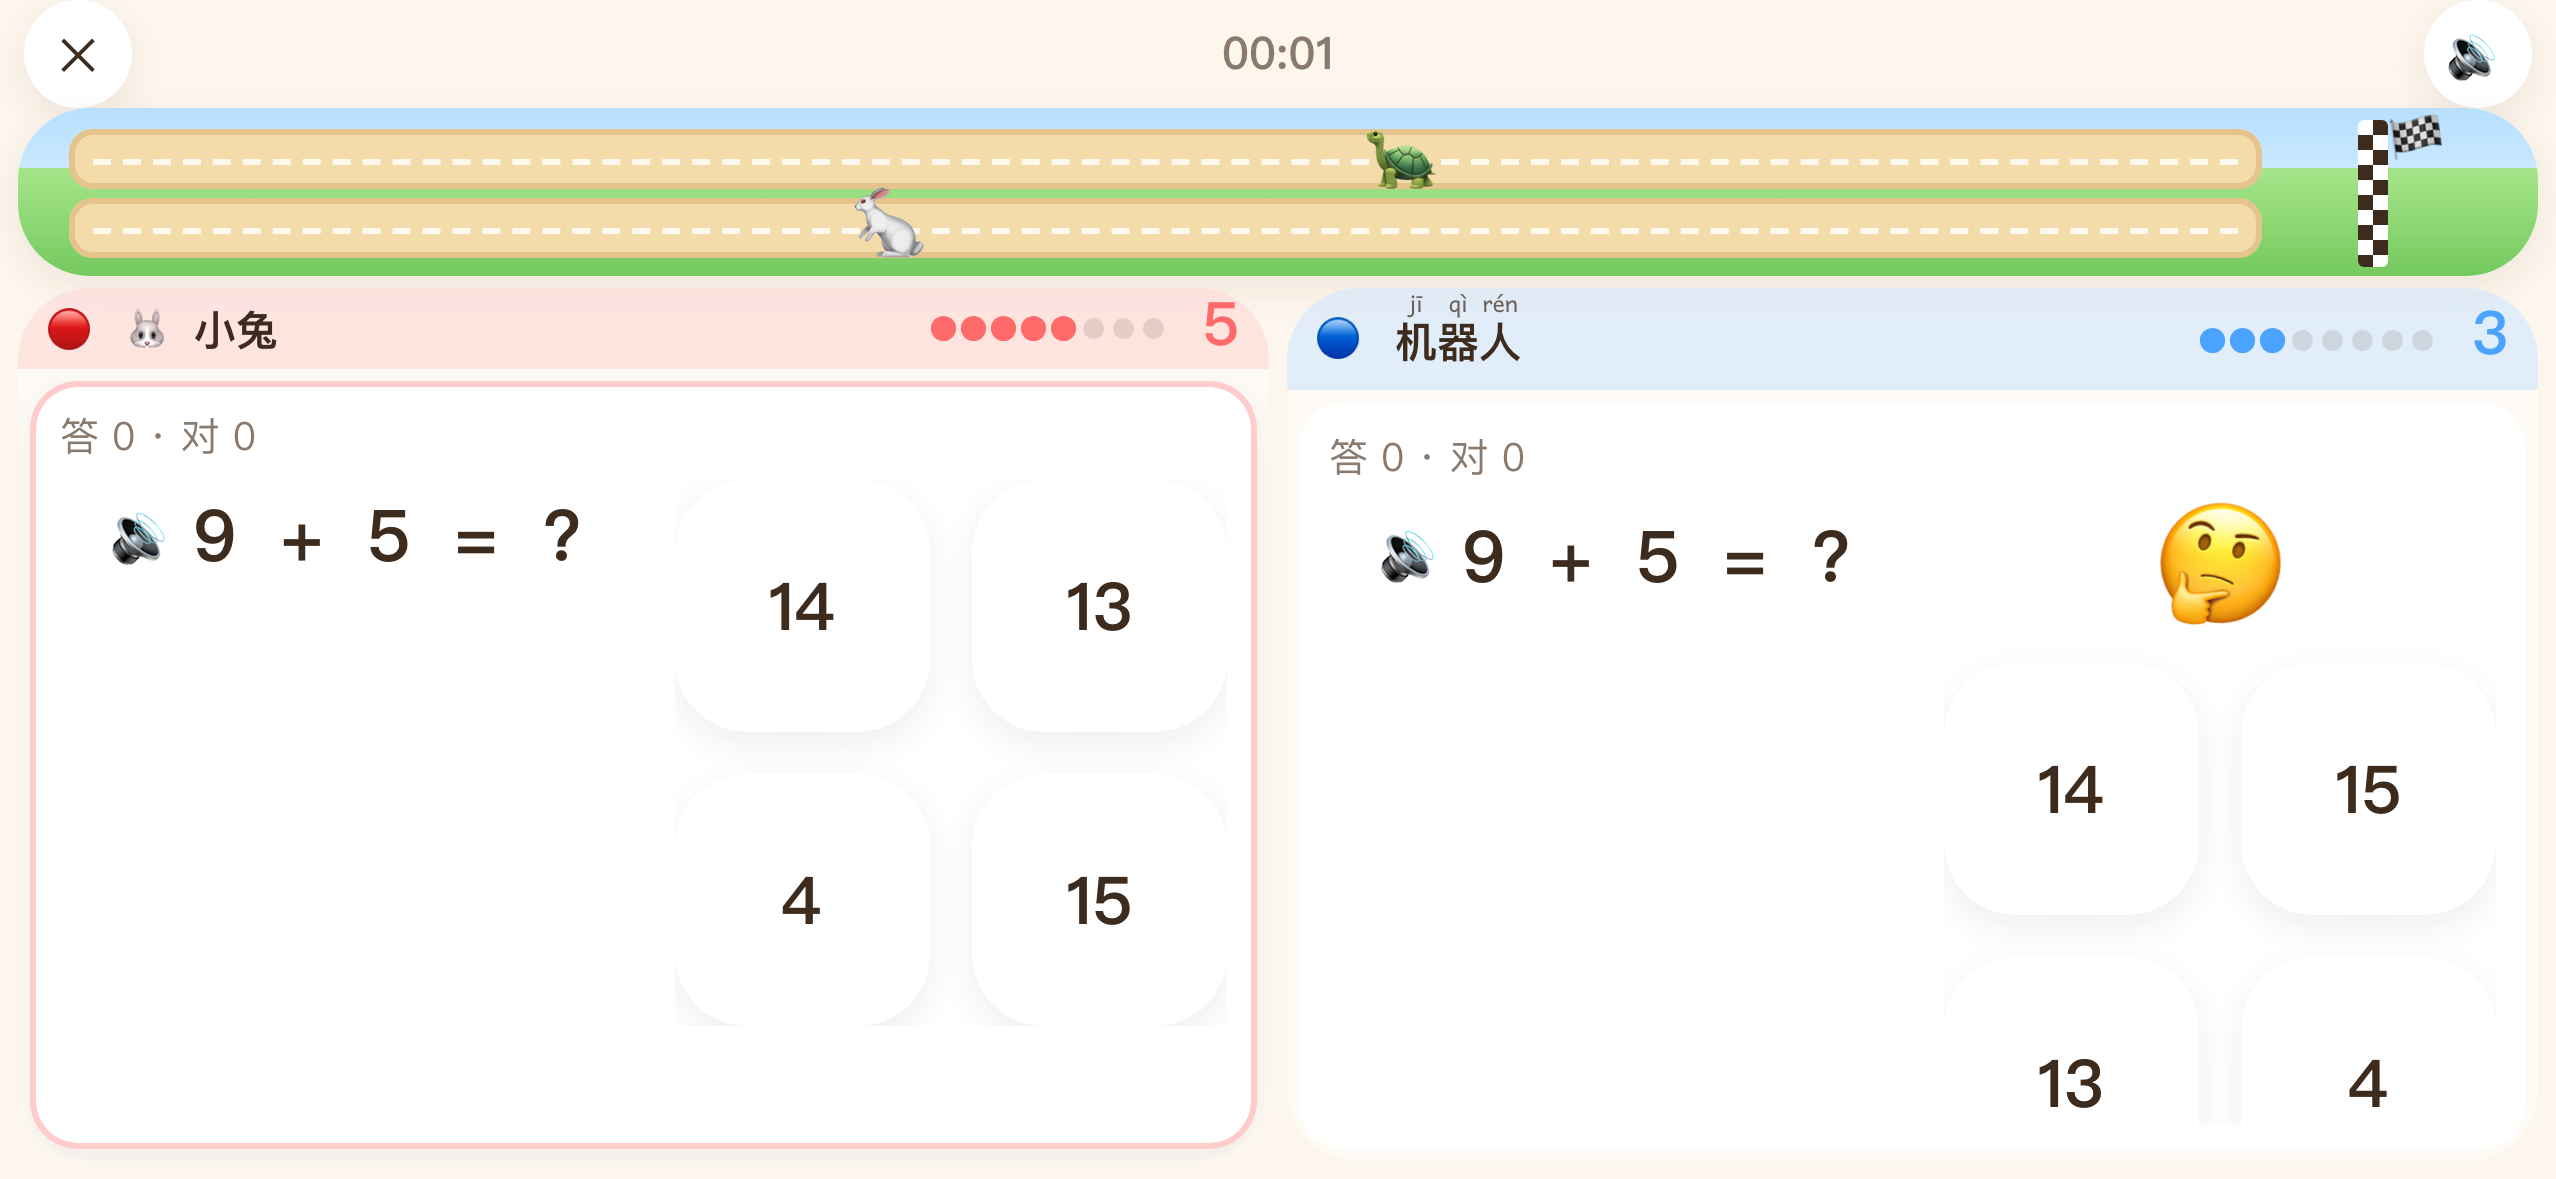
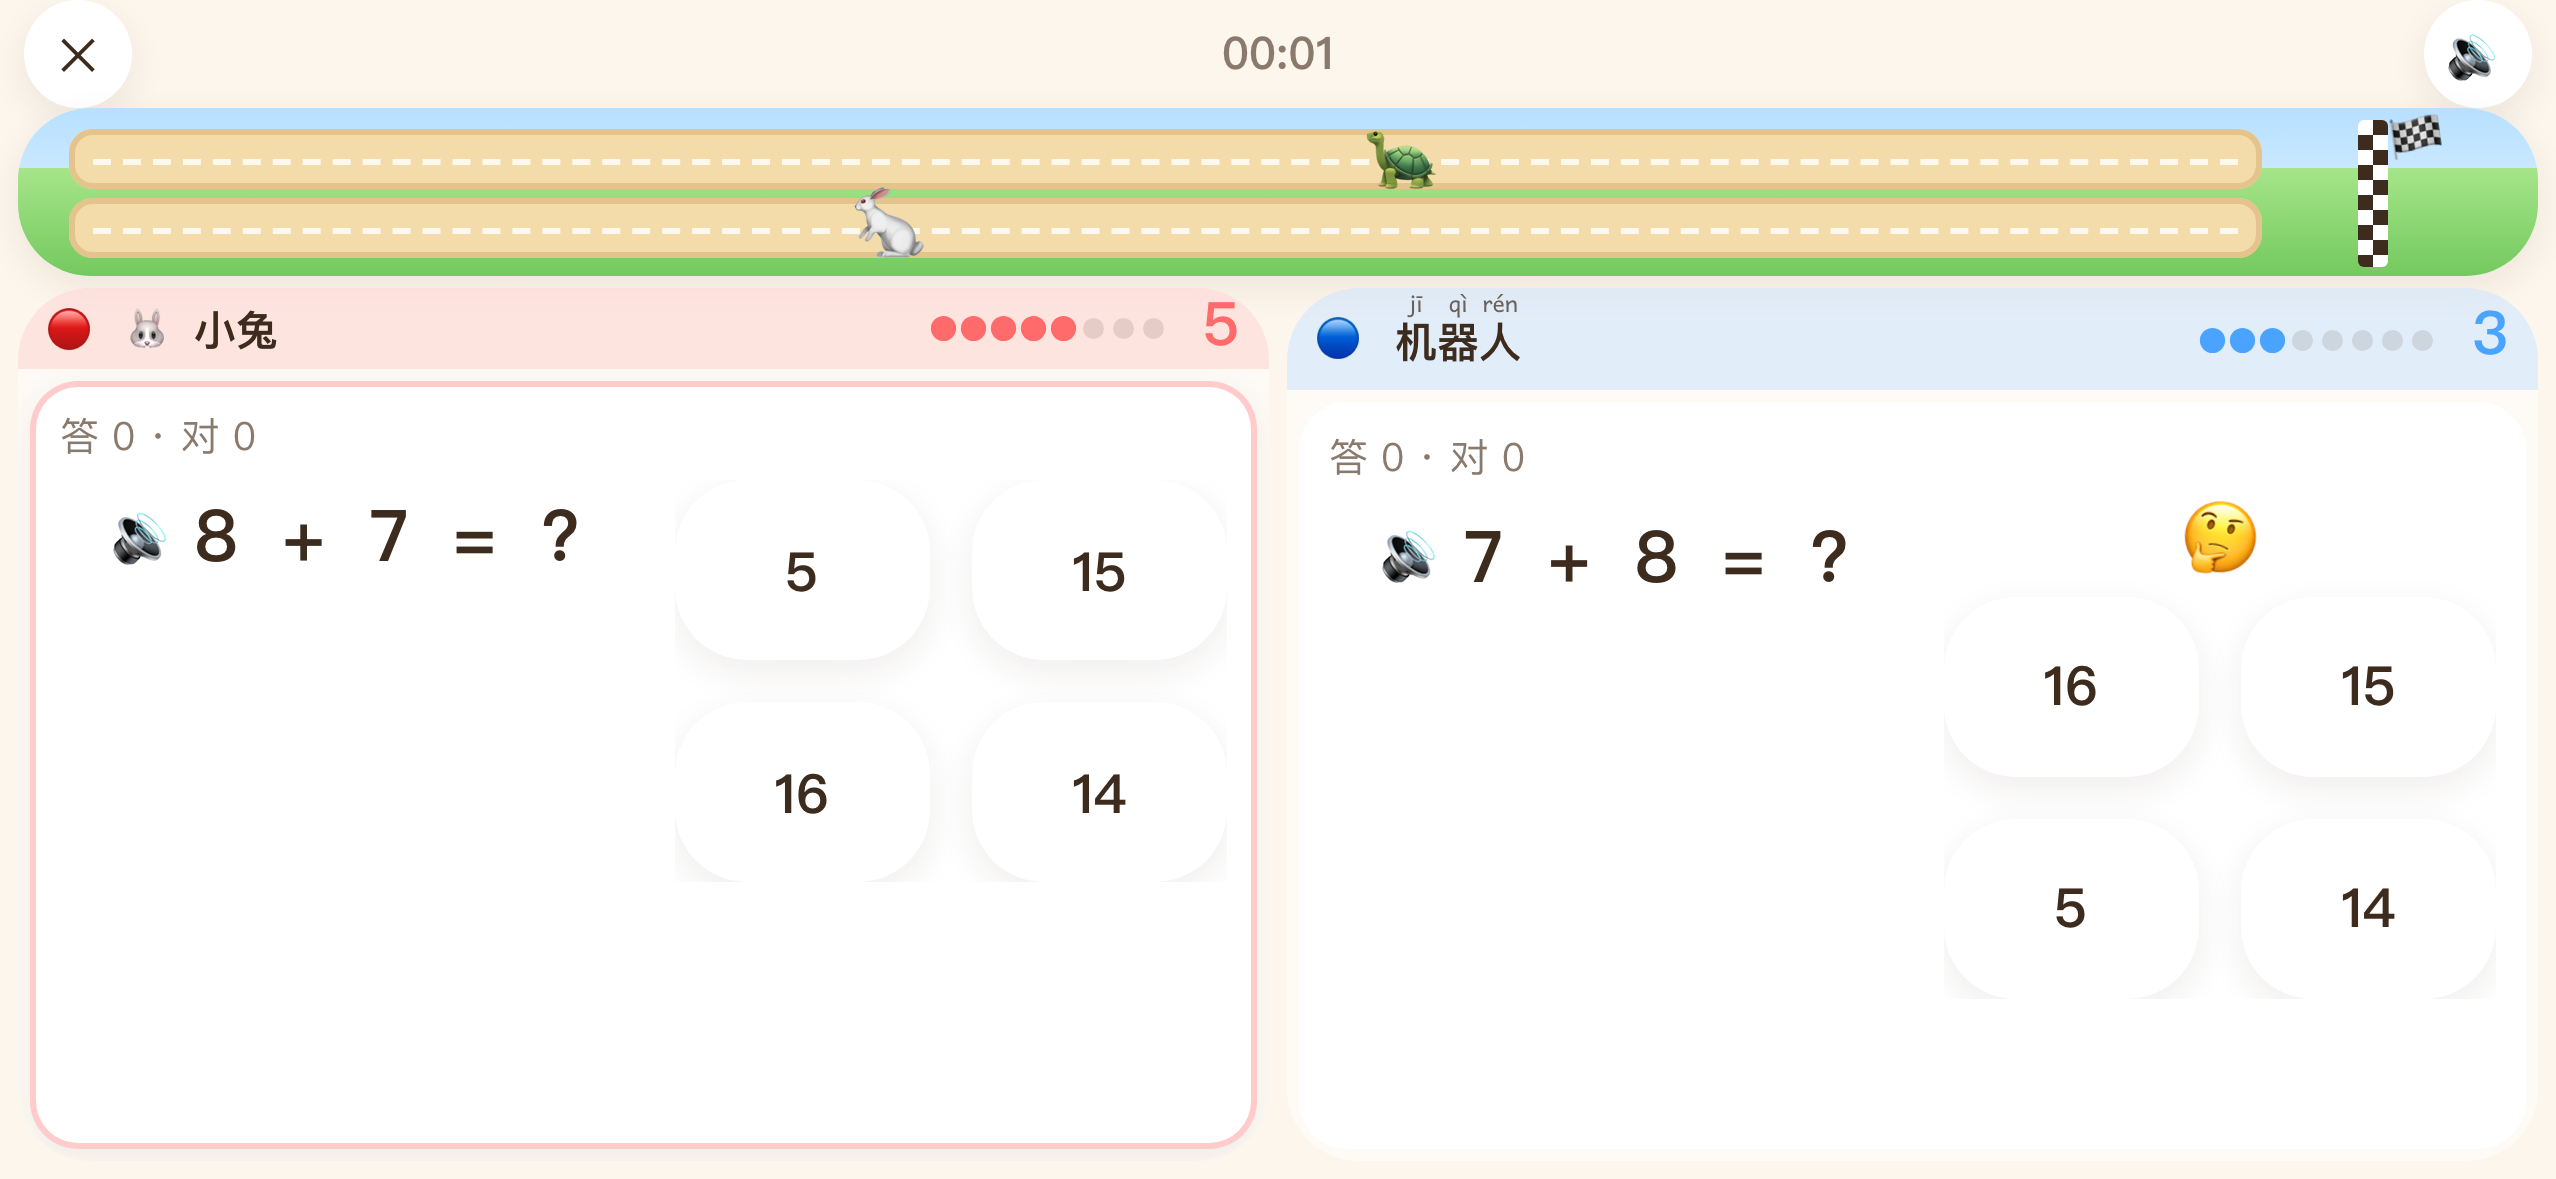
对战紧凑版：机器人那一行的表情缩小、去掉「想一想」文字、选项卡矮一点，作答栏不再被撑出去

diff --git a/src/components/battle/PlayerRow.vue b/src/components/battle/PlayerRow.vue
@@ -282,8 +282,19 @@ onBeforeUnmount(() => {
   max-height: 100%;
   overflow: auto;
 }
-.compact .mood,
-.compact .ai-mood {
-  font-size: 30px;
+/* 紧凑版的观看行：表情缩小、去掉「想一想」文字（表情已经在想了）、选项卡矮一点，别把作答栏撑出去 */
+.compact .ai-mood,
+.compact .a :deep(.mood) {
+  font-size: 26px;
+}
+.compact .a :deep(.watch) {
+  gap: 6px;
+}
+.compact .a :deep(.thinking) {
+  display: none;
+}
+.compact .a :deep(.cards .card) {
+  min-height: 60px;
+  font-size: var(--fs-lg);
 }
 </style>
